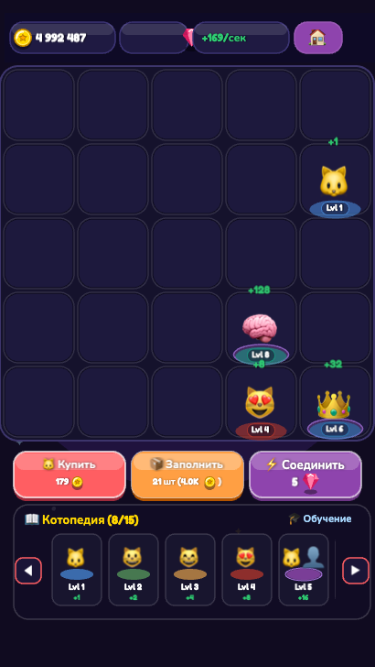
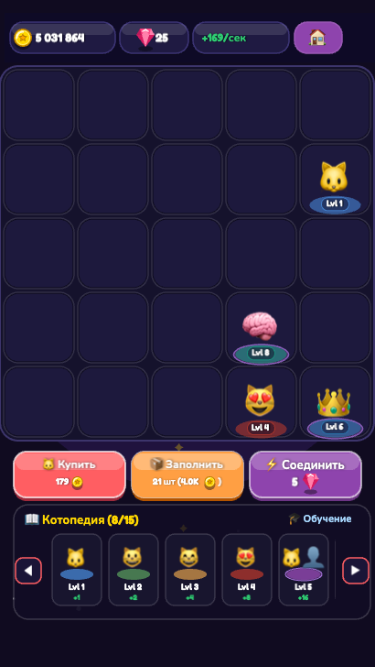
fix(ui): resolve gem capsule positioning in HUD and import CONFIG in UIUtils

diff --git a/src/ui/HUD.js b/src/ui/HUD.js
@@ -98,6 +98,8 @@ export class HUD extends Container {
     this._gemsText.anchor.set(0, 0.5);
     this.addChild(this._gemsText);
 
+    this._cap2X = cap2X;
+    this._cap2W = cap2W;
     this._repositionGemContent();
 
     // 4. КАПСУЛА 3: Доход в секунду (W = 105px, X = 206px)
@@ -146,13 +148,13 @@ export class HUD extends Container {
 
   _repositionGemContent() {
     if (!this._gemsText || !this._gemIcon) return;
-    const cap2W = 90;
-    const cap2X = 170;
+    const cap2W = this._cap2W || 75;
+    const cap2X = this._cap2X || 126;
     const capY = 10;
     const capH = 34;
 
-    const iconW = 16;
-    const gap = 6;
+    const iconW = 14;
+    const gap = 4;
     const totalW = iconW + gap + this._gemsText.width;
     const startX = cap2X + (cap2W - totalW) / 2;
 

diff --git a/dist/index.html b/dist/index.html
@@ -154,7 +154,7 @@
       location.reload();
     };
   </script>
-  <script type="module" crossorigin src="./assets/index-D6rPoSUe.js"></script>
+  <script type="module" crossorigin src="./assets/index-B3CpNpIm.js"></script>
 </head>
 <body>
   <!-- 🔥 Роскошный Сплаш-Экран Загрузки -->
